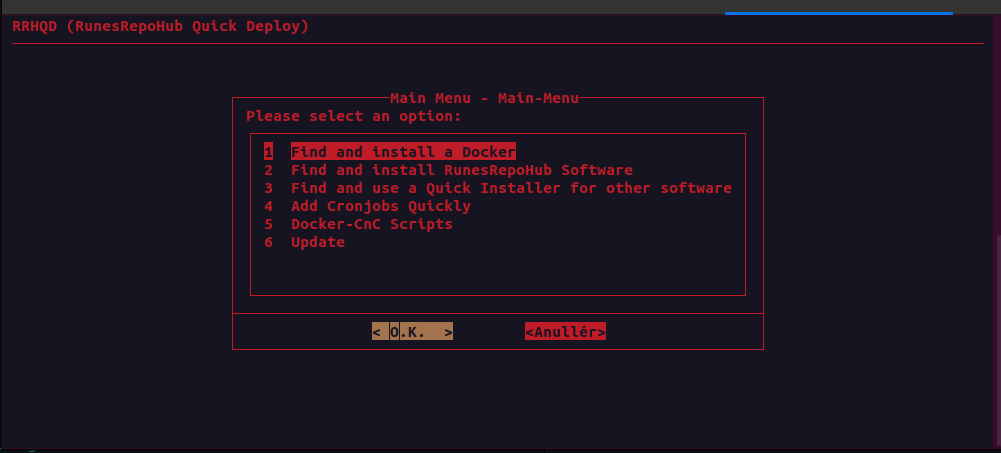
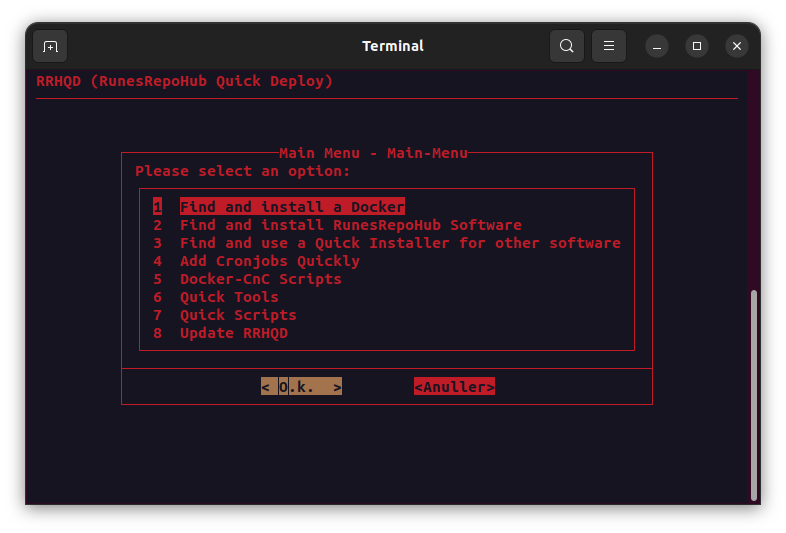
Updated readme

Changed region(s): [[0.0, 0.0, 1.0, 1.0]]

diff --git a/README.md b/README.md
@@ -1,38 +1,13 @@
 # RRHQD
 RunesRepoHub Quick Deploy this script has been made to make it easy to deploy the most used docker, software and other installers that we use.
 
-![Alt text](Docs/Main-Menu.png)
+![Alt text](Main-Menu.png)
 
 ### Current Versions:
 
 1. Dev = Development branch (Very unstable)
 2. PoC = Proof of concept (Nightly Updates)
 3. Prod = Production (Stable branch)
-
----------------------------------------------------------------------------------------------
-
-### RunesRepoHub Software Support:
-
-![Alt text](Docs/RRH.png)
-
-* ACS (Automated Content System)
-* CnC-WebGUI (Command And Control)
-* CnC-Agent (Command And Control)
-* EWD (Easy Web Development)
-
----------------------------------------------------------------------------------------------
-
-### Quick Installer Support:
-
-![Alt text](Docs/Quick-Installers.png)
-
-* Starship - A minimalistic, powerful, and extremely customizable prompt for any shell
-* Tailscale VPN - A private network that makes securing your online activity and managing your devices easy
-* Filezilla - A free software, cross-platform FTP application that supports FTP, SFTP, and FTPS
-* Fail2Ban - An intrusion prevention software framework that protects computer servers from brute-force attacks
-* Ansible - A radically simple IT automation tool
-
-* Docker (is auto installed) - A set of platform as a service products that use OS-level virtualization to deliver software in packages called containers
 
 ---------------------------------------------------------------------------------------------
 
@@ -54,6 +29,40 @@ RunesRepoHub Quick Deploy this script has been made to make it easy to deploy th
 
 ---------------------------------------------------------------------------------------------
 
+### RunesRepoHub Software Support:
+
+![Alt text](Docs/RRH.png)
+
+* ACS (Automated Content System)
+* News Report Docker (Automated News Reporting System)
+* EWD (Easy Web Development)
+
+---------------------------------------------------------------------------------------------
+
+### Quick Installer Support:
+
+![Alt text](Docs/Quick-Installers.png)
+
+* Starship - A minimalistic, powerful, and extremely customizable prompt for any shell
+* Tailscale VPN - A private network that makes securing your online activity and managing your devices easy
+* Filezilla - A free software, cross-platform FTP application that supports FTP, SFTP, and FTPS
+* Fail2Ban - An intrusion prevention software framework that protects computer servers from brute-force attacks
+* Ansible - A radically simple IT automation tool
+
+* Docker (is auto installed) - A set of platform as a service products that use OS-level virtualization to deliver software in packages called containers
+
+---------------------------------------------------------------------------------------------
+
+### Cronjobs
+
+![Alt text](Docs/Cronjobs.png)
+
+- Add a nightly reboot at 4:45 am
+- Daily midnight update (Debian Systems)
+- Add a reboot cronjob for every Sunday at 00:00 am
+
+---------------------------------------------------------------------------------------------
+
 ### Docker Command and Control
 
 ![Alt text](Docs/Docker-CnC.png)
@@ -69,9 +78,36 @@ RunesRepoHub Quick Deploy this script has been made to make it easy to deploy th
 
 ---------------------------------------------------------------------------------------------
 
-### Cronjobs
+### Quick Tools
 
-![Alt text](Docs/Cronjobs.png)
+![Alt text](Docs/Quick-Tools.png)
+
+(Early Access) Has not been full tested yet.
+
+- Disk Space - Check disk space
+- Security - Check security
+- Vulnerability - Check vulnerability
+- Full Scan Check - Check all 
+
+---------------------------------------------------------------------------------------------
+
+### Quick Scripts
+
+![Alt text](Docs/Quick-Scripts.png)
+
+(These scripts are made to work with the ACS)
+
+***IT WILL NOT WORK WITHOUT THE ACS***
+
+- Download Youtube Video - Download a youtube playlist
+- Download Full Youtube Channel - Add a youtube channel to download
+- Auto Update Youtube Channel Downloads - Check if there are new videos on the channel
+
+---------------------------------------------------------------------------------------------
+
+### Update RRHQD
+
+![Alt text](Docs/Update-RRHQD.png)
 
 ---------------------------------------------------------------------------------------------
 
